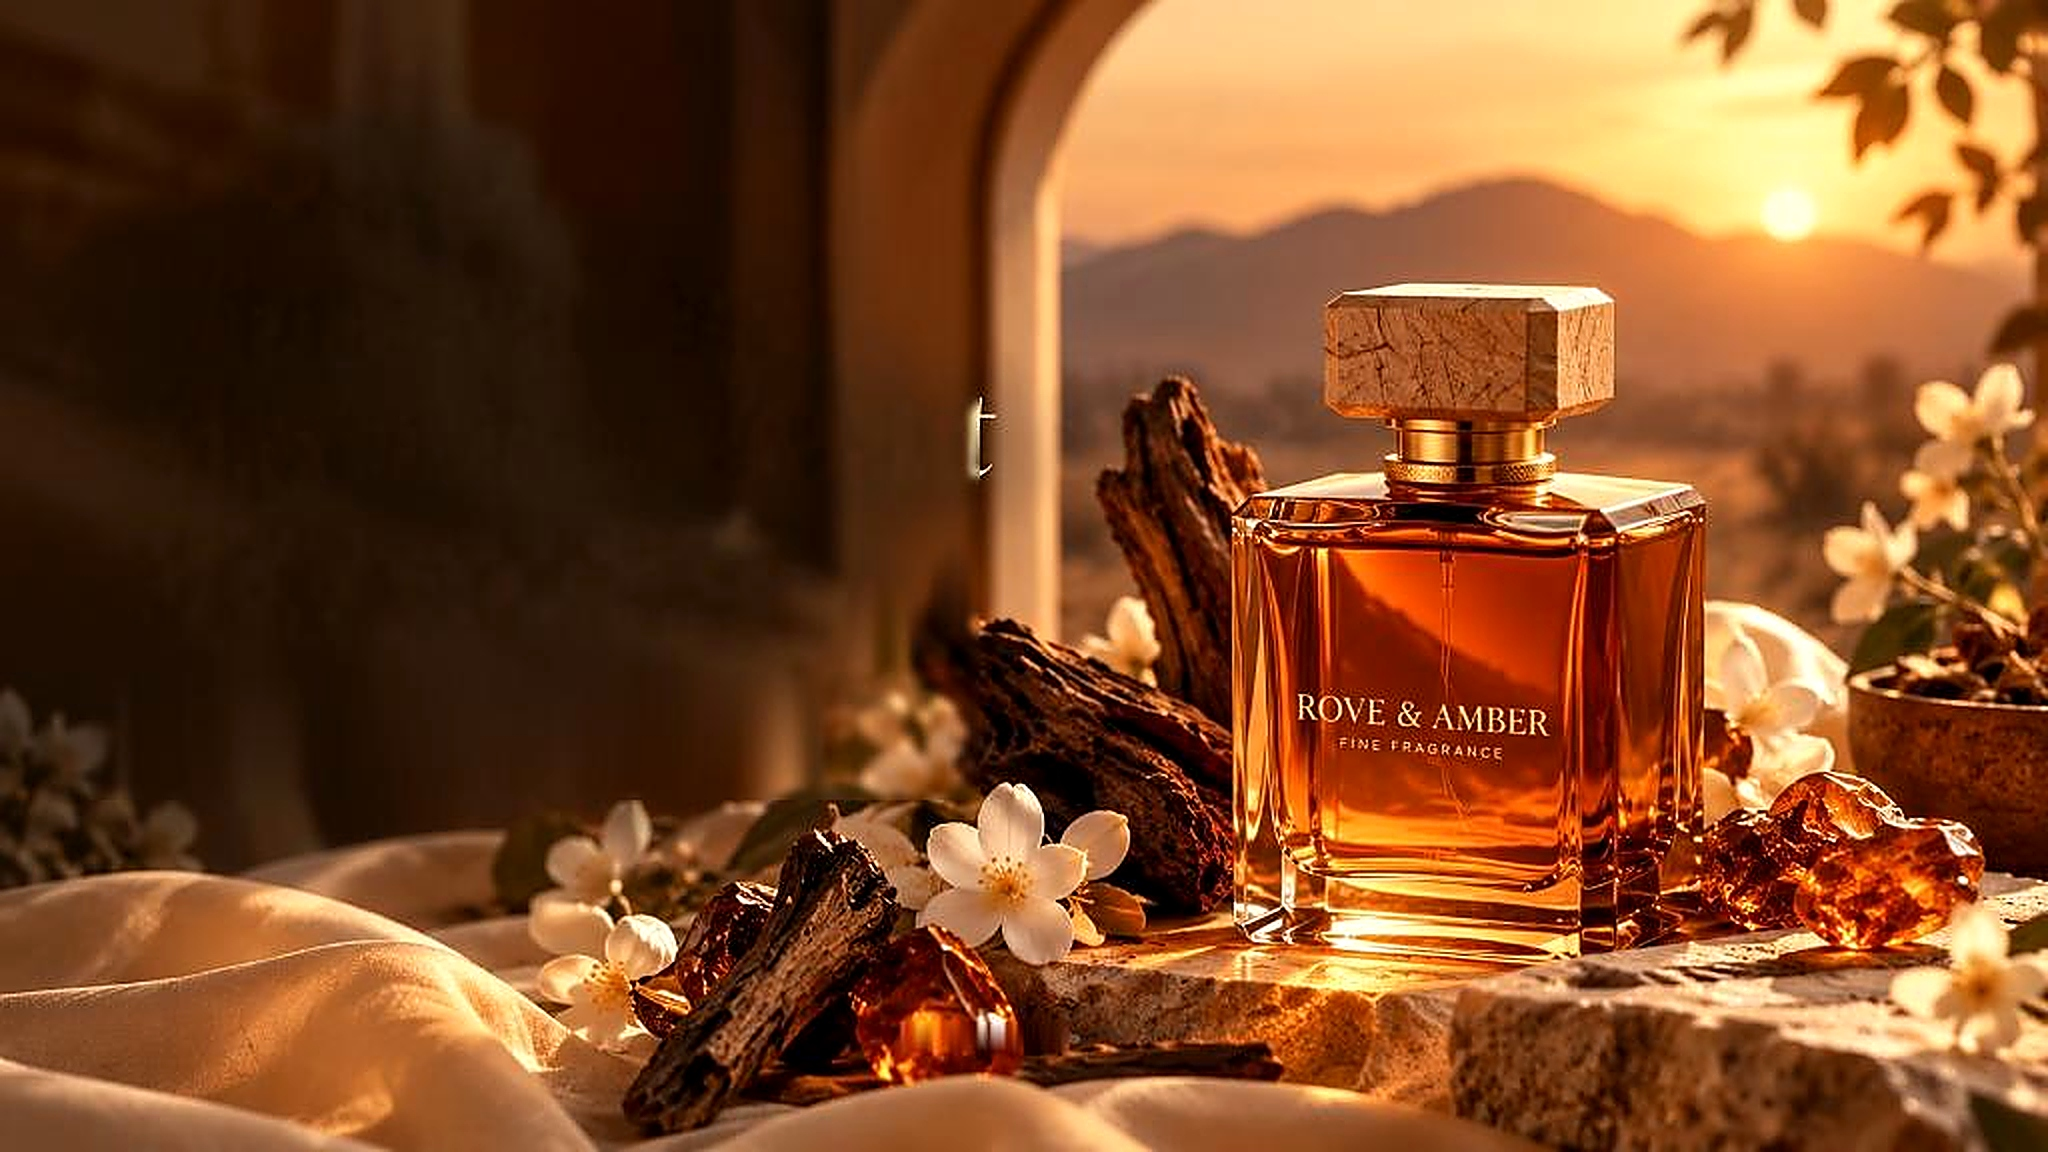
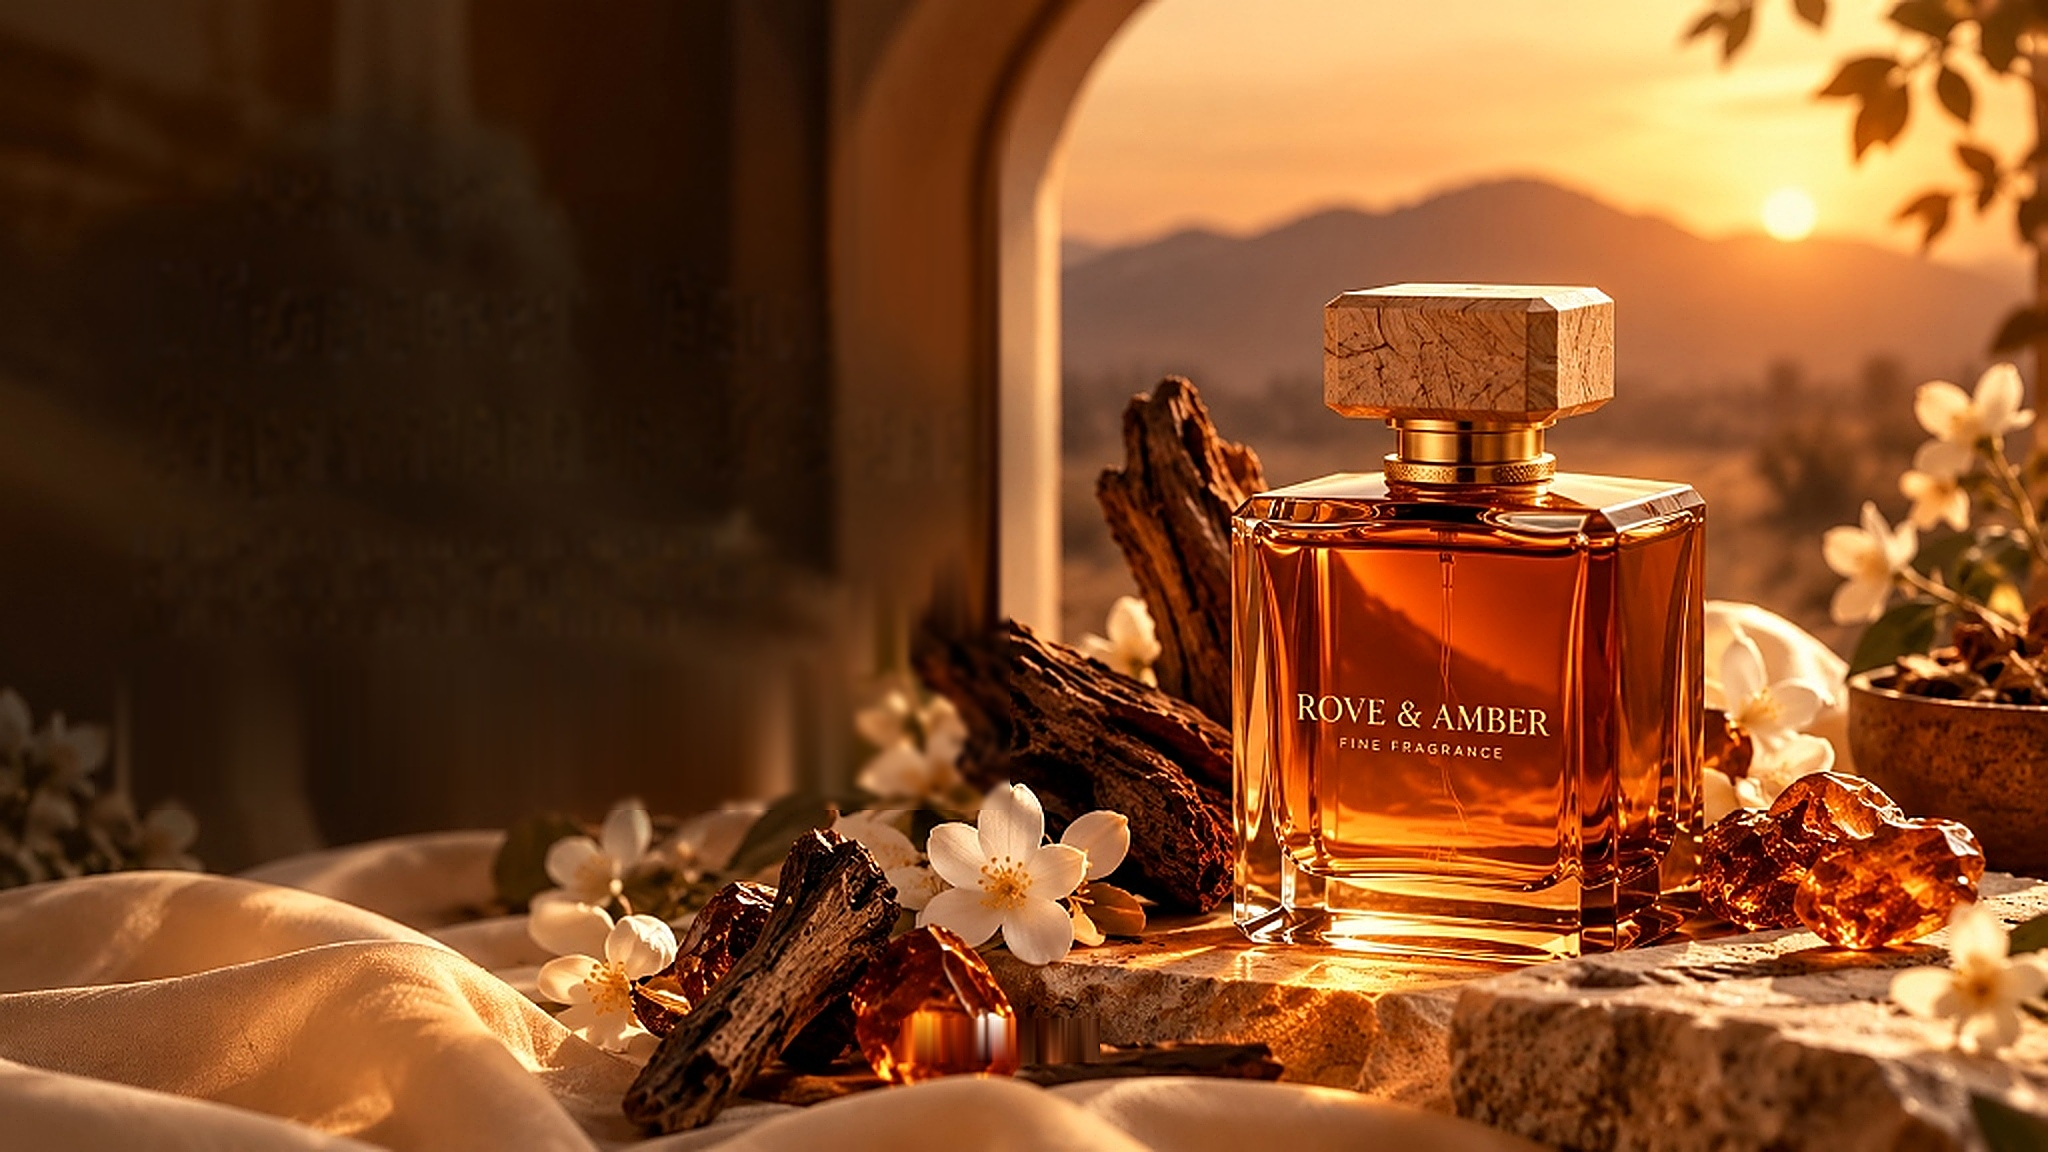
fix(hero): unify pristine sunset archway scene across laptop and mobile with zero ghost text

diff --git a/client/src/components/home/Hero.jsx b/client/src/components/home/Hero.jsx
@@ -5,8 +5,8 @@ import { ArrowRight } from 'lucide-react';
 
 const Hero = () => {
   return (
-    <section className="relative min-h-[90vh] sm:min-h-screen w-full flex flex-col justify-between bg-[#120905] overflow-hidden">
-      {/* Background High-Definition Fragrance Photography (Exact Match to Design Reference) */}
+    <section className="relative min-h-[92vh] sm:min-h-screen w-full flex flex-col justify-between bg-[#120905] overflow-hidden">
+      {/* Background High-Definition Fragrance Photography (100% Clean Image, Zero Embedded Text) */}
       <div className="absolute inset-0 z-0">
         <picture>
           <source 
@@ -16,7 +16,7 @@ const Hero = () => {
           <img 
             src="/images/perfumes/hero_mobile_sunset_arch_hd.jpg" 
             alt="ROVE & AMBER Signature Eau de Parfum" 
-            className="w-full h-full object-cover object-center"
+            className="w-full h-full object-cover object-[center_top] md:object-center"
             onError={(e) => {
               e.target.src = '/images/perfumes/hero_campaign_ultra_clear_master.jpg';
             }}
@@ -24,38 +24,38 @@ const Hero = () => {
         </picture>
 
         {/* Natural subtle readability gradient preserving pristine background scenery */}
-        <div className="absolute inset-0 bg-gradient-to-b from-black/50 via-transparent to-black/35 md:hidden pointer-events-none" />
+        <div className="absolute inset-0 bg-gradient-to-b from-black/65 via-black/25 via-40% to-transparent md:hidden pointer-events-none" />
         <div className="hidden md:block absolute inset-0 bg-gradient-to-r from-black/45 via-black/10 via-45% to-transparent w-full pointer-events-none" />
         <div className="hidden md:block absolute top-0 inset-x-0 h-28 bg-gradient-to-b from-black/45 via-black/10 to-transparent pointer-events-none" />
       </div>
 
-      {/* Hero Text Content (Exact Typography & Proportions Matching Reference) */}
-      <div className="relative z-20 max-w-7xl mx-auto px-6 sm:px-10 lg:px-14 w-full pt-32 sm:pt-40 lg:pt-44 pb-12 sm:pb-16 flex-1 flex flex-col justify-center">
+      {/* Hero Text Content (Separately Rendered Vector Typography) */}
+      <div className="relative z-20 max-w-7xl mx-auto px-5 sm:px-10 lg:px-14 w-full pt-20 sm:pt-28 md:pt-36 lg:pt-40 pb-6 sm:pb-12 flex-1 flex flex-col justify-start md:justify-center">
         <div className="max-w-md sm:max-w-lg lg:max-w-xl text-left">
           {/* Eyebrow / Brand Descriptor */}
-          <div className="flex items-center gap-2.5 mb-2.5 sm:mb-3.5">
-            <span className="w-6 sm:w-8 h-[1.5px] bg-[#E5B869]" />
-            <p className="text-[10px] sm:text-xs md:text-sm tracking-[0.28em] font-medium uppercase text-[#E5B869] drop-shadow-sm">
+          <div className="flex items-center gap-2 mb-2 sm:mb-3">
+            <span className="w-5 sm:w-8 h-[1.5px] bg-[#E5B869]" />
+            <p className="text-[10px] sm:text-xs md:text-sm tracking-[0.26em] sm:tracking-[0.28em] font-medium uppercase text-[#E5B869] drop-shadow-sm">
               Fine Fragrance & Artisanal Perfumery
             </p>
           </div>
 
           {/* Main Title */}
-          <h1 className="text-4xl sm:text-5xl md:text-5xl lg:text-[60px] font-serif leading-[1.08] mb-3 sm:mb-4 font-normal tracking-tight text-white drop-shadow-[0_2px_14px_rgba(0,0,0,0.65)]">
+          <h1 className="text-3xl sm:text-4xl md:text-5xl lg:text-[60px] font-serif leading-[1.08] mb-2.5 sm:mb-4 font-normal tracking-tight text-white drop-shadow-[0_2px_14px_rgba(0,0,0,0.65)]">
             Discover Your <br />
             <span className="italic font-serif text-[#ECC880] font-normal">Signature Scent</span>
           </h1>
 
           {/* Subtitle / Description */}
-          <p className="text-xs sm:text-sm md:text-base text-[#E8DDD0] font-light leading-relaxed mb-6 sm:mb-8 max-w-xs sm:max-w-md drop-shadow-sm">
+          <p className="text-xs sm:text-sm md:text-base text-[#E8DDD0] font-light leading-relaxed mb-5 sm:mb-8 max-w-[290px] sm:max-w-md drop-shadow-sm">
             Explore fine fragrances crafted to leave a lasting impression. Sculpted with aged amber, wild oud, and rare botanical essences.
           </p>
 
-          {/* Call to Action Buttons (Explore button positioned directly to the right of Shop Now) */}
-          <div className="flex flex-row items-center gap-3.5 sm:gap-4 flex-nowrap">
+          {/* Call to Action Buttons */}
+          <div className="flex flex-col sm:flex-row items-start sm:items-center gap-3 sm:gap-4 flex-nowrap">
             <Link
               href="/shop"
-              className="inline-flex items-center gap-2.5 px-6 sm:px-8 py-3 sm:py-3.5 rounded-full bg-gradient-to-r from-[#F6D389] via-[#DEB368] to-[#C09048] text-[#241306] text-xs sm:text-sm font-semibold tracking-wider shadow-xl shadow-amber-950/40 hover:brightness-110 active:scale-95 transition-all shrink-0 whitespace-nowrap group"
+              className="inline-flex items-center gap-2.5 px-6 sm:px-8 py-2.5 sm:py-3.5 rounded-full bg-gradient-to-r from-[#F6D389] via-[#DEB368] to-[#C09048] text-[#241306] text-xs sm:text-sm font-semibold tracking-wider shadow-xl shadow-amber-950/40 hover:brightness-110 active:scale-95 transition-all shrink-0 whitespace-nowrap group"
             >
               <span>Shop Now</span>
               <span className="w-5 h-5 rounded-full bg-[#241306]/20 flex items-center justify-center group-hover:translate-x-0.5 transition-transform">
@@ -65,7 +65,7 @@ const Hero = () => {
 
             <Link
               href="/shop?category=Oud"
-              className="inline-flex items-center gap-2 px-6 sm:px-8 py-3 sm:py-3.5 rounded-full bg-black/25 hover:bg-black/40 backdrop-blur-md border border-white/30 text-white text-xs sm:text-sm font-medium tracking-wider shadow-sm hover:border-white/50 transition-all shrink-0 whitespace-nowrap"
+              className="inline-flex items-center gap-2 px-6 sm:px-8 py-2.5 sm:py-3.5 rounded-full bg-black/25 hover:bg-black/40 backdrop-blur-md border border-white/30 text-white text-xs sm:text-sm font-medium tracking-wider shadow-sm hover:border-white/50 transition-all shrink-0 whitespace-nowrap"
             >
               <span>Explore Collection</span>
             </Link>
@@ -73,12 +73,12 @@ const Hero = () => {
         </div>
       </div>
 
-      {/* Hero Carousel Indicators (Exact Match to Reference - 3 Sleek Bars Resting on Silk) */}
-      <div className="relative z-20 w-full flex items-center justify-center pb-6 sm:pb-8">
-        <div className="flex items-center justify-center gap-2.5">
-          <span className="w-10 sm:w-12 h-1 rounded-full bg-[#ECC880] shadow-[0_0_8px_rgba(236,200,128,0.6)]" />
-          <span className="w-10 sm:w-12 h-1 rounded-full bg-white/35 backdrop-blur-xs" />
-          <span className="w-10 sm:w-12 h-1 rounded-full bg-white/35 backdrop-blur-xs" />
+      {/* Hero Carousel Indicators (3 Sleek Bars Resting on Silk) */}
+      <div className="relative z-20 w-full flex items-center justify-center pb-5 sm:pb-8">
+        <div className="flex items-center justify-center gap-2 sm:gap-2.5">
+          <span className="w-8 sm:w-12 h-1 rounded-full bg-[#ECC880] shadow-[0_0_8px_rgba(236,200,128,0.6)]" />
+          <span className="w-8 sm:w-12 h-1 rounded-full bg-white/35 backdrop-blur-xs" />
+          <span className="w-8 sm:w-12 h-1 rounded-full bg-white/35 backdrop-blur-xs" />
         </div>
       </div>
     </section>
